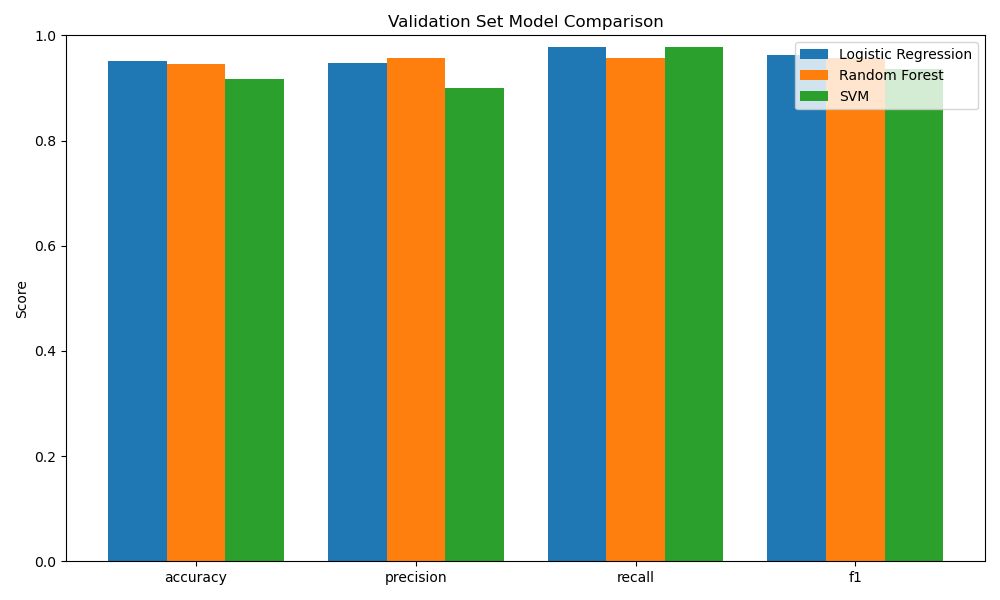
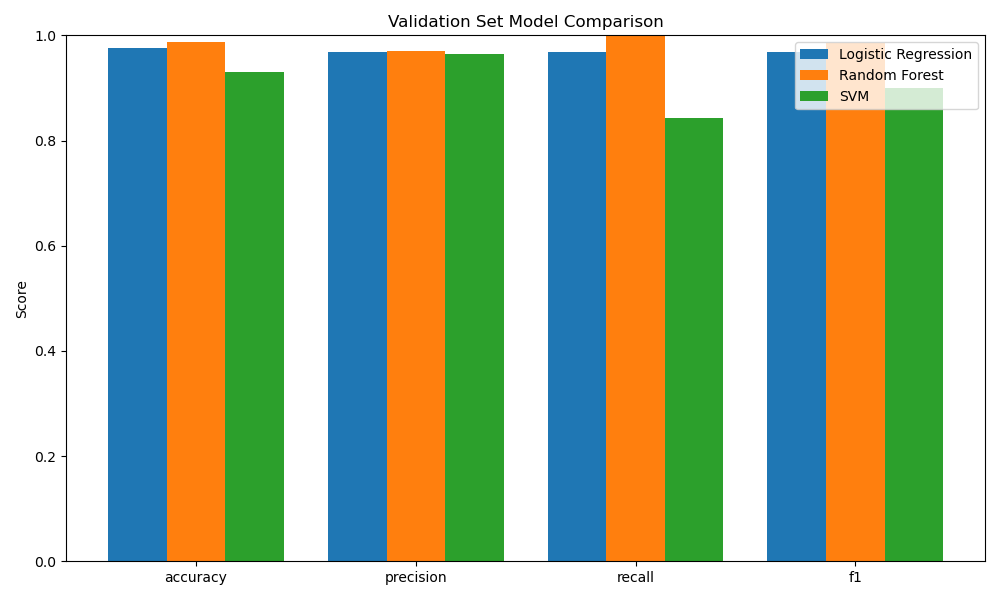
Compute metrics for the malignant class and fix the test split size
- Use malignant (label 0) as the positive class for precision, recall and f1
- Split the remaining 30% evenly into validation and test (15/15)
- Share one metric function between validation and test evaluation
- Evaluate unscaled models on the test set once instead of twice
- Regenerate comparison plots and add the test-set scaling plot

diff --git a/main.py b/main.py
@@ -8,6 +8,9 @@ from sklearn.svm import SVC
 from sklearn.preprocessing import StandardScaler
 from sklearn.metrics import accuracy_score, precision_score, recall_score, f1_score
 
+# data.target_names -> ['malignant', 'benign']; precision/recall/f1 kanser (malignant) sınıfı için hesaplanır
+MALIGNANT = 0
+
 def load_breast_cancer_dataset():
     # Load the breast cancer dataset
     data = load_breast_cancer()
@@ -67,7 +70,7 @@ def split_train_val_test(x, y, train_size=0.7, test_size=0.15, random_state=42, 
     x_val, x_test, y_val, y_test = train_test_split(
         x_temp,
         y_temp,
-        test_size=test_size,
+        test_size=0.5,
         random_state=random_state,
         stratify=stratify
     )
@@ -81,27 +84,22 @@ def get_dataset_distribution(y_train, y_val, y_test):
     })
     return distribution
 
+def model_evaluation(model, x, y):
+    # Val ve test için ortak metrik hesabı. accuracy sınıf ayrımı yapmadığı için pos_label almaz.
+    y_pred = model.predict(x)
+    return {
+        "accuracy": accuracy_score(y, y_pred),
+        "precision": precision_score(y, y_pred, pos_label=MALIGNANT),
+        "recall": recall_score(y, y_pred, pos_label=MALIGNANT),
+        "f1": f1_score(y, y_pred, pos_label=MALIGNANT),
+    }
+
 def model_training(models, x_train, y_train, x_val, y_val):
     results = {}
     for name, model in models.items():
         model.fit(x_train, y_train)
-        y_pred = model.predict(x_val)
-        results[name] = {
-            "accuracy": accuracy_score(y_val, y_pred),
-            "precision": precision_score(y_val, y_pred),
-            "recall": recall_score(y_val, y_pred),
-            "f1": f1_score(y_val, y_pred),
-        }
+        results[name] = model_evaluation(model, x_val, y_val)
     return results
-
-def model_evaluation(model, x_test, y_test):
-    y_pred = model.predict(x_test)
-    return {
-        "accuracy": accuracy_score(y_test, y_pred),
-        "precision": precision_score(y_test, y_pred),
-        "recall": recall_score(y_test, y_pred),
-        "f1": f1_score(y_test, y_pred),
-    }
 
 def scale_features(x_train, x_val, x_test):
     # StandardScaler yalnızca train ile fit edilir; val/test'e sadece transform uygulanır (veri sızıntısını önlemek için).
@@ -209,17 +207,11 @@ if __name__ == "__main__":
     plot_model_comparison(results)
 
     print("--------------------------------")
-    print("Evaluating the best model on the test set:")
-    model_evaluation_results = model_evaluation(models["Random Forest"], x_test, y_test)
-    print("Random Forest Test Set Evaluation:", model_evaluation_results)
-    model_evaluation_results = model_evaluation(models["Logistic Regression"], x_test, y_test)
-    print("Logistic Regression Test Set Evaluation:", model_evaluation_results)
-    model_evaluation_results = model_evaluation(models["SVM"], x_test, y_test)
-    print("SVM Test Set Evaluation:", model_evaluation_results)
-
-    unscaled_test_results = {
-        name: model_evaluation(model, x_test, y_test) for name, model in models.items()
-    }
+    print("Evaluating unscaled models on the test set:")
+    unscaled_test_results = {}
+    for model_name, model in models.items():
+        unscaled_test_results[model_name] = model_evaluation(model, x_test, y_test)
+        print(model_name, "Test Set Evaluation:", unscaled_test_results[model_name])
 
     print("--------------------------------")
     print("Scaling features with StandardScaler (fit on train only):")
